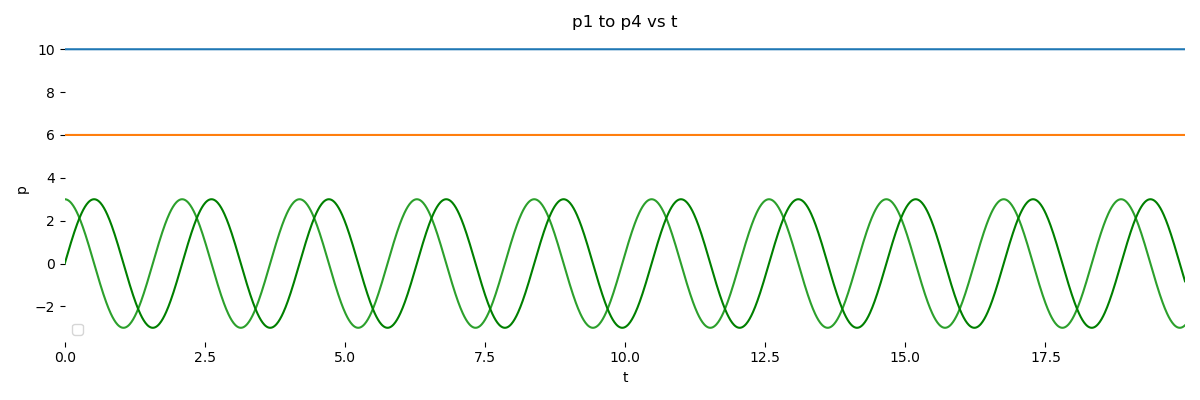
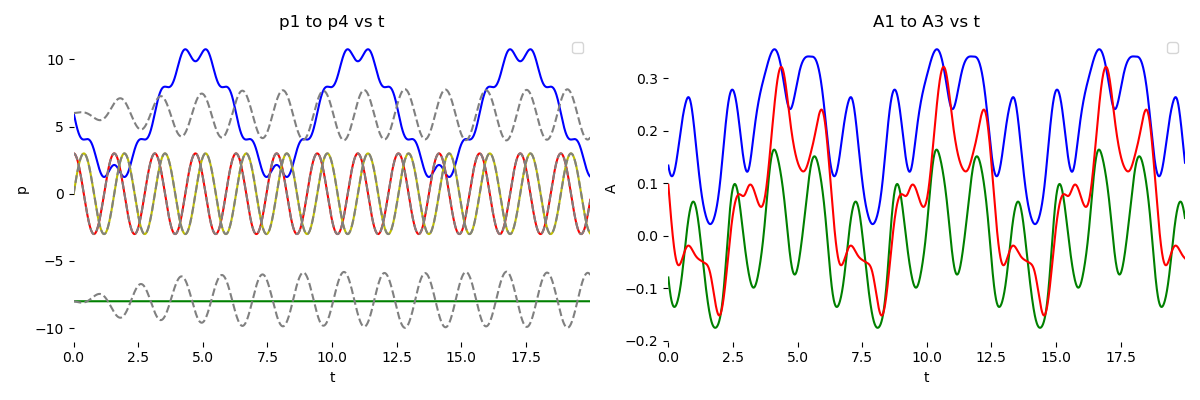
parameterize dynamics

diff --git a/motion.py b/motion.py
@@ -3,41 +3,21 @@ import matplotlib.pyplot as plt
 import numpy as np
 
 class InfGenerator(torch.nn.Module):
-    def __init__(self, type = 'SE(2)') -> None:
+    def __init__(self, type = 'SE(2)', nn=None) -> None:
         super(InfGenerator, self).__init__()
         self.type = type
-        self.sys = self.EquationsOfMotion()
+        self.net = nn
+        self.sys = self.EquationsOfMotion(nn=self.net)
 
-    def generator(self, t:torch.Tensor) -> torch.Tensor:
-        N = t.size(dim=2)
-        if self.type == 'SE(2)':
-            gen = self.sys.y(t[2]).reshape(N,1,1)*torch.tensor([[0., 0., 0.], [-1., 0., 0.], [0., 0., 0.]]) + \
-                    self.sys.x(t[3]).reshape(N,1,1)*torch.tensor([[0., 0., 0.], [0., 0., 0.], [1., 0., 0.]]) + \
-                    torch.tensor([[1., 0, 0], [0., 1., 0], [0., 0., 1.]]).repeat(N,1,1).reshape(N,3,3)
-            return gen
-            # return torch.tensor([[1., 0, 0], [-self.sys.y(t), 1., 0], [self.sys.x(t), 0, 1]])
-        elif self.type == 'S1xR2':
-            return torch.tensor([[1., 0, 0], [0, 1., 0], [0, 0, 1.]]).repeat(N,1,1).reshape(N,3,3)
-        
-    def generator_inv(self, t: torch.Tensor) -> torch.Tensor:
-        N = t.size(dim=2)
-        if self.type == 'SE(2)':
-            gen = self.sys.y(t[2]).reshape(N,1,1)*torch.tensor([[0., 0., 0.], [1., 0., 0.], [0., 0., 0.]]) + \
-                    self.sys.x(t[3]).reshape(N,1,1)*torch.tensor([[0., 0., 0.], [0., 0., 0.], [-1., 0., 0.]]) + \
-                    torch.tensor([[1., 0, 0], [0., 1., 0], [0., 0., 1.]]).repeat(N,1,1).reshape(N,3,3)
-            return gen
-            # return torch.tensor([[1., 0, 0], [-self.sys.y(t), 1., 0], [self.sys.x(t), 0, 1]])
-        elif self.type == 'S1xR2':
-            return torch.tensor([[1., 0, 0], [0, 1., 0], [0, 0, 1.]]).repeat(N,1,1).reshape(N,3,3)
-        
     def forward(self, t, p):
-        self.sys.evaluate(t)
+        self.sys.evaluate(t, nn=self.net)
         return self.sys.p_dot(p, self.type)
         
         
     class EquationsOfMotion:
 
         def __init__(self, 
+                    nn: torch.nn.Module = None,
                     Omega: float = 1,
                     omega: float = 3,
                     R: float = 3,
@@ -59,6 +39,7 @@ class InfGenerator(torch.nn.Module):
             self.I = I
             self.J = J
             self.m = m
+            self.nn = nn
 
             # state at time t
             self.theta_ = self.theta(t, True)
@@ -69,11 +50,14 @@ class InfGenerator(torch.nn.Module):
             self.x_dot_ = self.x_dot(t)
             self.y_ = self.y(t, True)
             self.y_dot_ = self.y_dot(t)
-            self.Omega_a_ = self.Omega_a('SE(2)')
+            self.q_ = self.q()
+
             # coordinates
-            self.u1 = self.u_alpha('SE(2)')
+            self.u1 = self.u_alpha('SE(2)', nn)
             self.u2, self.u3, self.u4 = self.u_sigma_a('SE(2)')
+
             # coefficients
+            self.Omega_a_ = self.Omega_a('SE(2)')
             self.c_j_i = self.compute_c_j_i('SE(2)')
 
         '''
@@ -122,8 +106,8 @@ class InfGenerator(torch.nn.Module):
                 y.requires_grad_()
             return y
 
-        def q(self, t: torch.Tensor) -> torch.Tensor:
-            return torch.cat([self.theta(t[0]), self.phi(t[1]), self.x(t[2]), self.y(t[3])], axis=0)
+        def q(self) -> torch.Tensor:
+            return torch.tensor([self.theta_, self.phi_, self.x_, self.y_])
 
         def dL_dqdot(self, t:torch.Tensor) -> torch.Tensor:
             return torch.cat([self.I * self.theta_dot(t[0]), self.J * self.phi_dot(t[1]), self.m * self.x_dot(t[2]), self.m * self.y_dot(t[3])], axis=0)
@@ -132,15 +116,22 @@ class InfGenerator(torch.nn.Module):
         ## 
         ## Hamel's formulation
         ## 
-        def u_alpha(self, type) -> torch.Tensor:
+        def u_alpha(self, type, nn: torch.nn.Module = None) -> torch.Tensor:
             """
             Constraint distribution. Input a time scalar t.
             """
             if type == 'SE(2)':
                 phi = self.phi_
-                u1 =  self.R*torch.cos(phi)*torch.tensor([0., 0., 1., 0.]) + \
-                      self.R*torch.sin(phi)*torch.tensor([0., 0., 0., 1.]) + \
-                      torch.tensor([1., 0., 0., 0.])
+                if nn is None:
+                    u1 =  self.R*torch.cos(phi)*torch.tensor([0., 0., 1., 0.]) + \
+                        self.R*torch.sin(phi)*torch.tensor([0., 0., 0., 1.]) + \
+                        torch.tensor([1., 0., 0., 0.])
+                else:
+                    A_learned = nn(self.q_)
+                    u1 =  torch.tensor([1., 0., 0., 0.]) + \
+                        - A_learned[0]*torch.tensor([0., 1., 0., 0.]) + \
+                        - A_learned[1]*torch.tensor([0., 0., 1., 0.]) + \
+                        - A_learned[2]*torch.tensor([0., 0., 0., 1.])
                 return u1
 
         def u_sigma_a(self, type) -> torch.Tensor:
@@ -162,11 +153,11 @@ class InfGenerator(torch.nn.Module):
             Quasi-velocities
             """
             if type == 'SE(2)':
-                omega1 = self.theta_dot_
-                omega2 = self.phi_dot_
-                omega3 = - self.R*torch.cos(self.phi_)*self.theta_dot_ + self.y_*self.phi_dot_
-                omega4 = - self.R*torch.sin(self.phi_)*self.theta_dot_ - self.x_*self.phi_dot_
-                return torch.cat([omega1, omega2, omega3, omega4], axis=0)
+                omega1 = self.phi_dot_
+                omega2 = self.u1[0]*self.theta_dot_ + self.phi_dot_
+                omega3 = self.u1[1]*self.theta_dot_ + (self.y_*self.phi_dot_ + self.x_dot_)
+                omega4 = self.u1[2]*self.theta_dot_ + (-self.x_*self.phi_dot_ + self.y_dot_)
+                return torch.tensor([omega1, omega2, omega3, omega4])
 
         def p(self, type) -> torch.Tensor:
             """
@@ -176,7 +167,7 @@ class InfGenerator(torch.nn.Module):
                 p2 = self.J * self.phi_dot_ - self.m * self.y_ * self.x_dot_ + self.m * self.x_ * self.y_dot_
                 p3 = self.m * self.x_dot_
                 p4 = self.m * self.y_dot_
-                p1 = self.I * self.theta_dot_ + self.R * (torch.cos(self.phi_) * p3 + torch.sin(self.phi_) * p4)
+                p1 = self.I * self.theta_dot_ - self.u1[1:4] @ torch.tensor([p2, p3, p4])
                 return torch.tensor([p1, p2, p3, p4])
             
         def p_dot(self, p:torch.Tensor, type) -> torch.Tensor:
@@ -210,8 +201,8 @@ class InfGenerator(torch.nn.Module):
                          (c_2_4 @ p) * self.Omega_a_[1] + \
                          (c_3_4 @ p) * self.Omega_a_[2]
                 return torch.tensor([p1_dot, p2_dot, p3_dot, p4_dot])
-        
-        def evaluate(self, t: torch.Tensor) -> torch.Tensor:
+
+        def evaluate(self, t: torch.Tensor, nn: torch.nn.Module=None) -> torch.Tensor:
             # state at time t
             self.theta_ = self.theta(t, True)
             self.theta_dot_ = self.theta_dot(t)
@@ -221,11 +212,14 @@ class InfGenerator(torch.nn.Module):
             self.x_dot_ = self.x_dot(t)
             self.y_ = self.y(t, True)
             self.y_dot_ = self.y_dot(t)
-            self.Omega_a_ = self.Omega_a('SE(2)')
+            self.q_ = self.q()
+
             # coordinates
-            self.u1 = self.u_alpha('SE(2)')
+            self.u1 = self.u_alpha('SE(2)', nn=nn)
             self.u2, self.u3, self.u4 = self.u_sigma_a('SE(2)')
+
             # coefficients
+            self.Omega_a_ = self.Omega_a('SE(2)')
             self.c_j_i = self.compute_c_j_i('SE(2)')
             return
 

diff --git a/test.py b/test.py
@@ -11,25 +11,67 @@ def makedirs(dirname):
 
 makedirs('png')
 fig = plt.figure(figsize=(12, 4), facecolor='white')
-ax_traj = fig.add_subplot(111, frameon=False)
+ax_traj = fig.add_subplot(121, frameon=False)
+ax_A = fig.add_subplot(122, frameon=False)
 # ax_phase = fig.add_subplot(132, frameon=False)
 # ax_vecfield = fig.add_subplot(133, frameon=False)
 plt.show(block=False)
 
 device = torch.device("cuda:0" if torch.cuda.is_available() else "cpu")
 t = torch.arange(0., 20, 0.01).to(device)
+opts = {
+    'data_size': t.size(0),
+    'batch_time': 3,
+    'batch_size': 1
+}
 
-def visualize(true_y, odefunc, itr):
+network = torch.nn.Sequential(
+            torch.nn.Linear(4, 32),
+            torch.nn.Tanh(),
+            torch.nn.Linear(32, 32),
+            torch.nn.Tanh(),
+            torch.nn.Linear(32, 3),
+        ).to(device)
+for m in network.modules():
+    if isinstance(m, torch.nn.Linear):
+        torch.nn.init.normal_(m.weight, mean=0, std=0.1)
+        torch.nn.init.constant_(m.bias, val=0)
+
+def get_batch(true_y, options):
+    s = torch.from_numpy(np.random.choice(np.arange(options['data_size'] - options['batch_time'], dtype=np.int64), options['batch_size'], replace=False))
+    batch_y0 = true_y[s]  # (M, D)
+    batch_t = t[:options['batch_time']]  # (T)
+    batch_y = torch.stack([true_y[s + i] for i in range(options['batch_time'])], dim=0)  # (T, M, D)
+    return batch_y0.to(device), batch_t.to(device), batch_y.to(device)
+
+def visualize(true_p, pred_p, A, odefunc, itr):
 
     ax_traj.cla()
     ax_traj.set_title('p1 to p4 vs t')
     ax_traj.set_xlabel('t')
     ax_traj.set_ylabel('p')
-    ax_traj.plot(t.cpu().numpy(), true_y.cpu().numpy()[:, 0], t.cpu().numpy(), true_y.cpu().numpy()[:, 1], t.cpu().numpy(), true_y.cpu().numpy()[:, 2], t.cpu().numpy(), true_y.cpu().numpy()[:, 3], 'g-')
-    # ax_traj.plot(t.cpu().numpy(), pred_y.cpu().numpy()[:, 0, 0], '--', t.cpu().numpy(), pred_y.cpu().numpy()[:, 0, 1], 'b--')
+    ax_traj.plot(
+        t.cpu().numpy(), true_p.cpu().numpy()[:, 0], 'g-', 
+        t.cpu().numpy(), true_p.cpu().numpy()[:, 1], 'b-', 
+        t.cpu().numpy(), true_p.cpu().numpy()[:, 2], 'r-', 
+        t.cpu().numpy(), true_p.cpu().numpy()[:, 3], 'y-')
+    ax_traj.plot(t.cpu().numpy(), pred_p.cpu().numpy()[:, 0], color='grey', linestyle='--')
+    ax_traj.plot(t.cpu().numpy(), pred_p.cpu().numpy()[:, 1], color='grey', linestyle='--')
+    ax_traj.plot(t.cpu().numpy(), pred_p.cpu().numpy()[:, 2], color='grey', linestyle='--')
+    ax_traj.plot(t.cpu().numpy(), pred_p.cpu().numpy()[:, 3], color='grey', linestyle='--')
     ax_traj.set_xlim(t.cpu().min(), t.cpu().max())
     # ax_traj.set_ylim(-2, 2)
     ax_traj.legend()
+
+    ax_A.cla()
+    ax_A.set_title('A1 to A3 vs t')
+    ax_A.set_xlabel('t')
+    ax_A.set_ylabel('A')
+    ax_A.plot(t.cpu().numpy(), A.detach().numpy()[:, 0], 'g-')
+    ax_A.plot(t.cpu().numpy(), A.detach().numpy()[:, 1], 'b-')
+    ax_A.plot(t.cpu().numpy(), A.detach().numpy()[:, 2], 'r-')
+    ax_A.set_xlim(t.cpu().min(), t.cpu().max())
+    ax_A.legend()
 
     # ax_phase.cla()
     # ax_phase.set_title('Phase Portrait')
@@ -63,7 +105,27 @@ def visualize(true_y, odefunc, itr):
 
 if __name__ == "__main__":
     t = torch.arange(0., 20, 0.01).to(device)
-    inf_gen = InfGenerator().to(device)
-    p0 = inf_gen.sys.p('SE(2)')
-    true_p = odeint(inf_gen, p0, t)
-    visualize(true_p, inf_gen, 0)
+    dynamics_true = InfGenerator().to(device)
+    dynamics_param = InfGenerator(nn=network).to(device)
+    optimizer = torch.optim.RMSprop(dynamics_param.parameters(), lr=1e-3)
+
+    p0 = dynamics_true.sys.p('SE(2)')
+    true_p = odeint(dynamics_true, p0, t)
+
+    for itr in range(1, 2001):
+        optimizer.zero_grad()
+        batch_p0, batch_t, batch_p = get_batch(true_p, opts)
+        pred_p = odeint(dynamics_param, batch_p0[0], batch_t)
+        loss = torch.mean(torch.abs(pred_p - batch_p))
+        loss.backward()
+        optimizer.step()
+
+        if itr % 100 == 0:
+            with torch.no_grad():
+                pred_p = odeint(dynamics_param, p0, t)
+                A = dynamics_param.net(true_p)
+                print('Iter {:04d} | Total Loss {:.6f}'.format(itr, loss.item()))
+                # visualize(true_p, pred_p, A, dynamics_param, itr)
+    pred_p = odeint(dynamics_param, p0, t)
+    A = dynamics_param.net(true_p)
+    visualize(true_p, pred_p, A, dynamics_true, 0)
